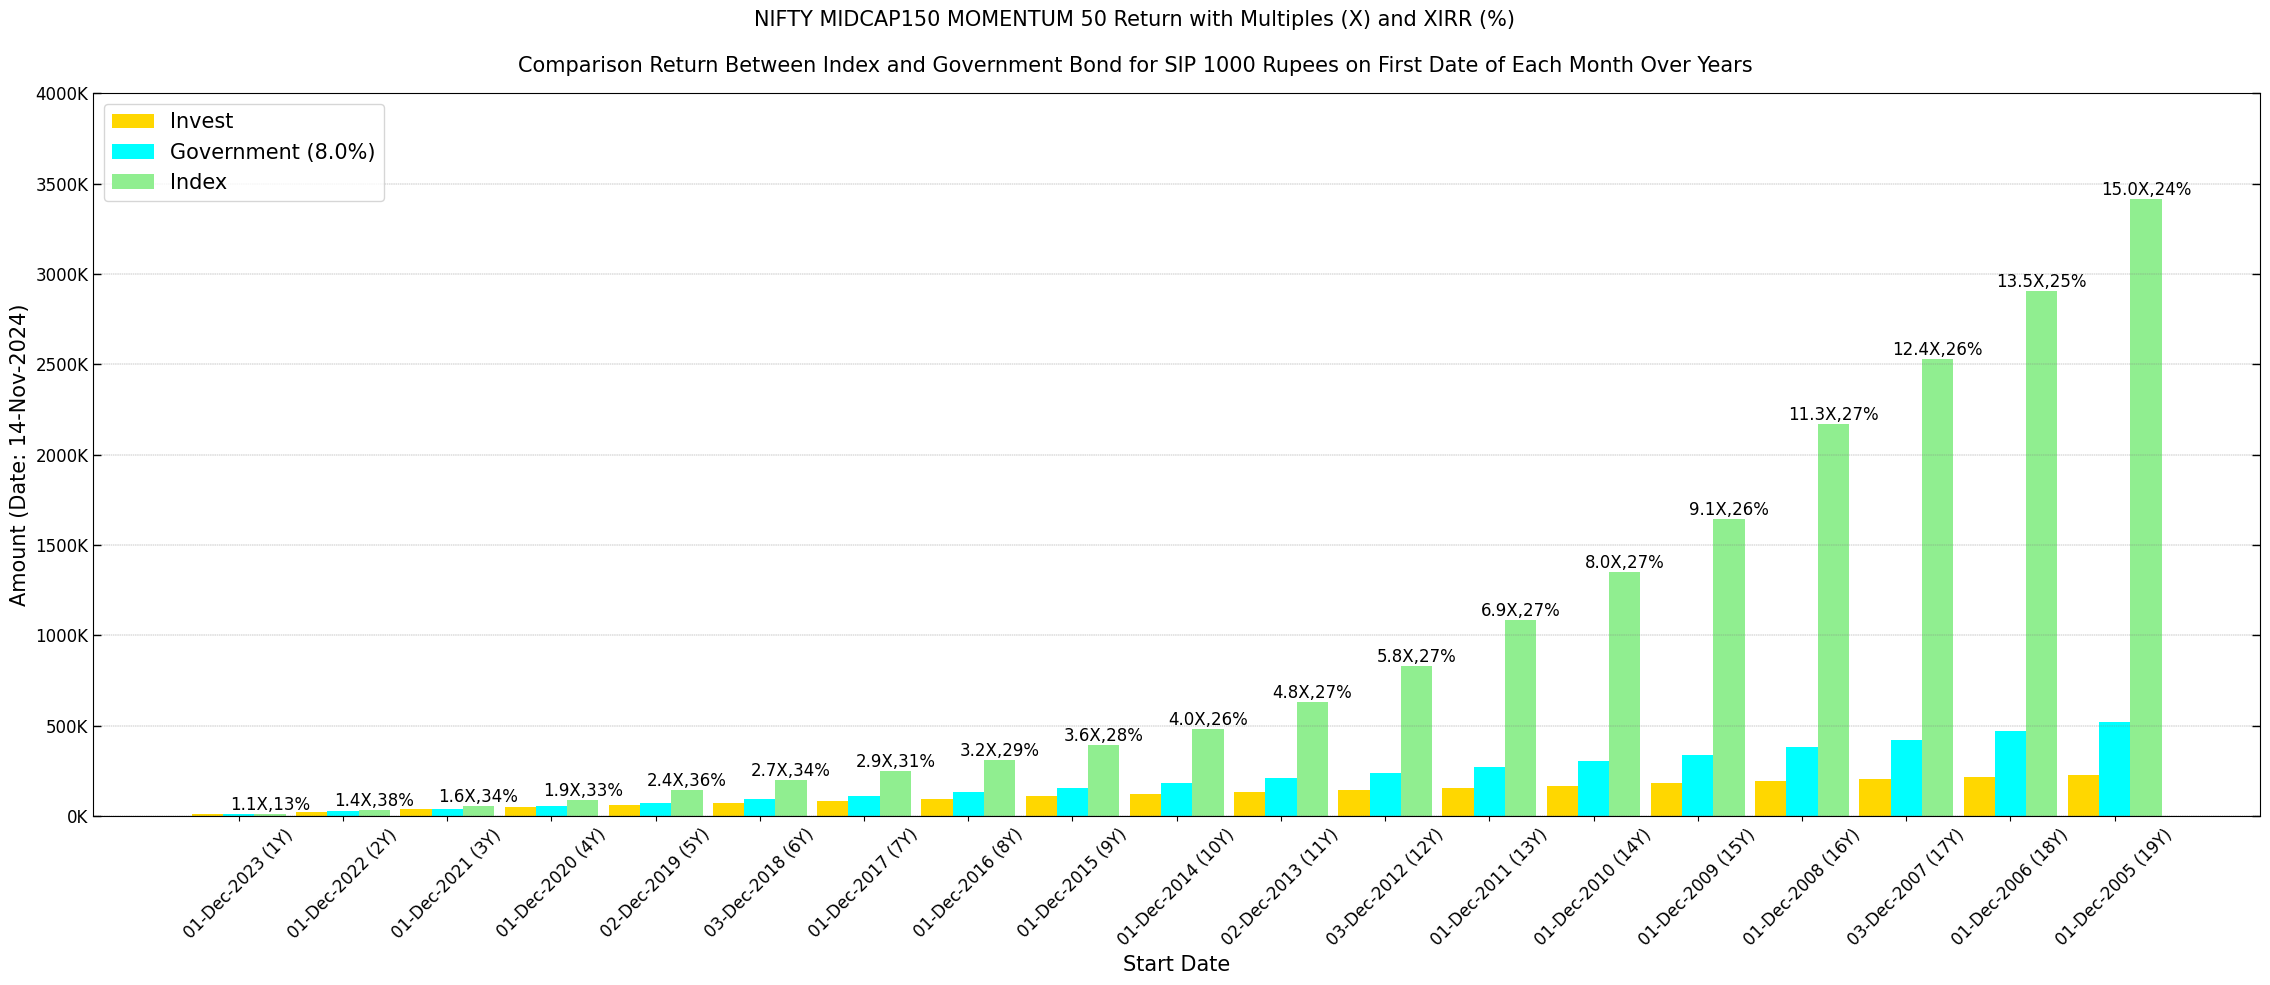
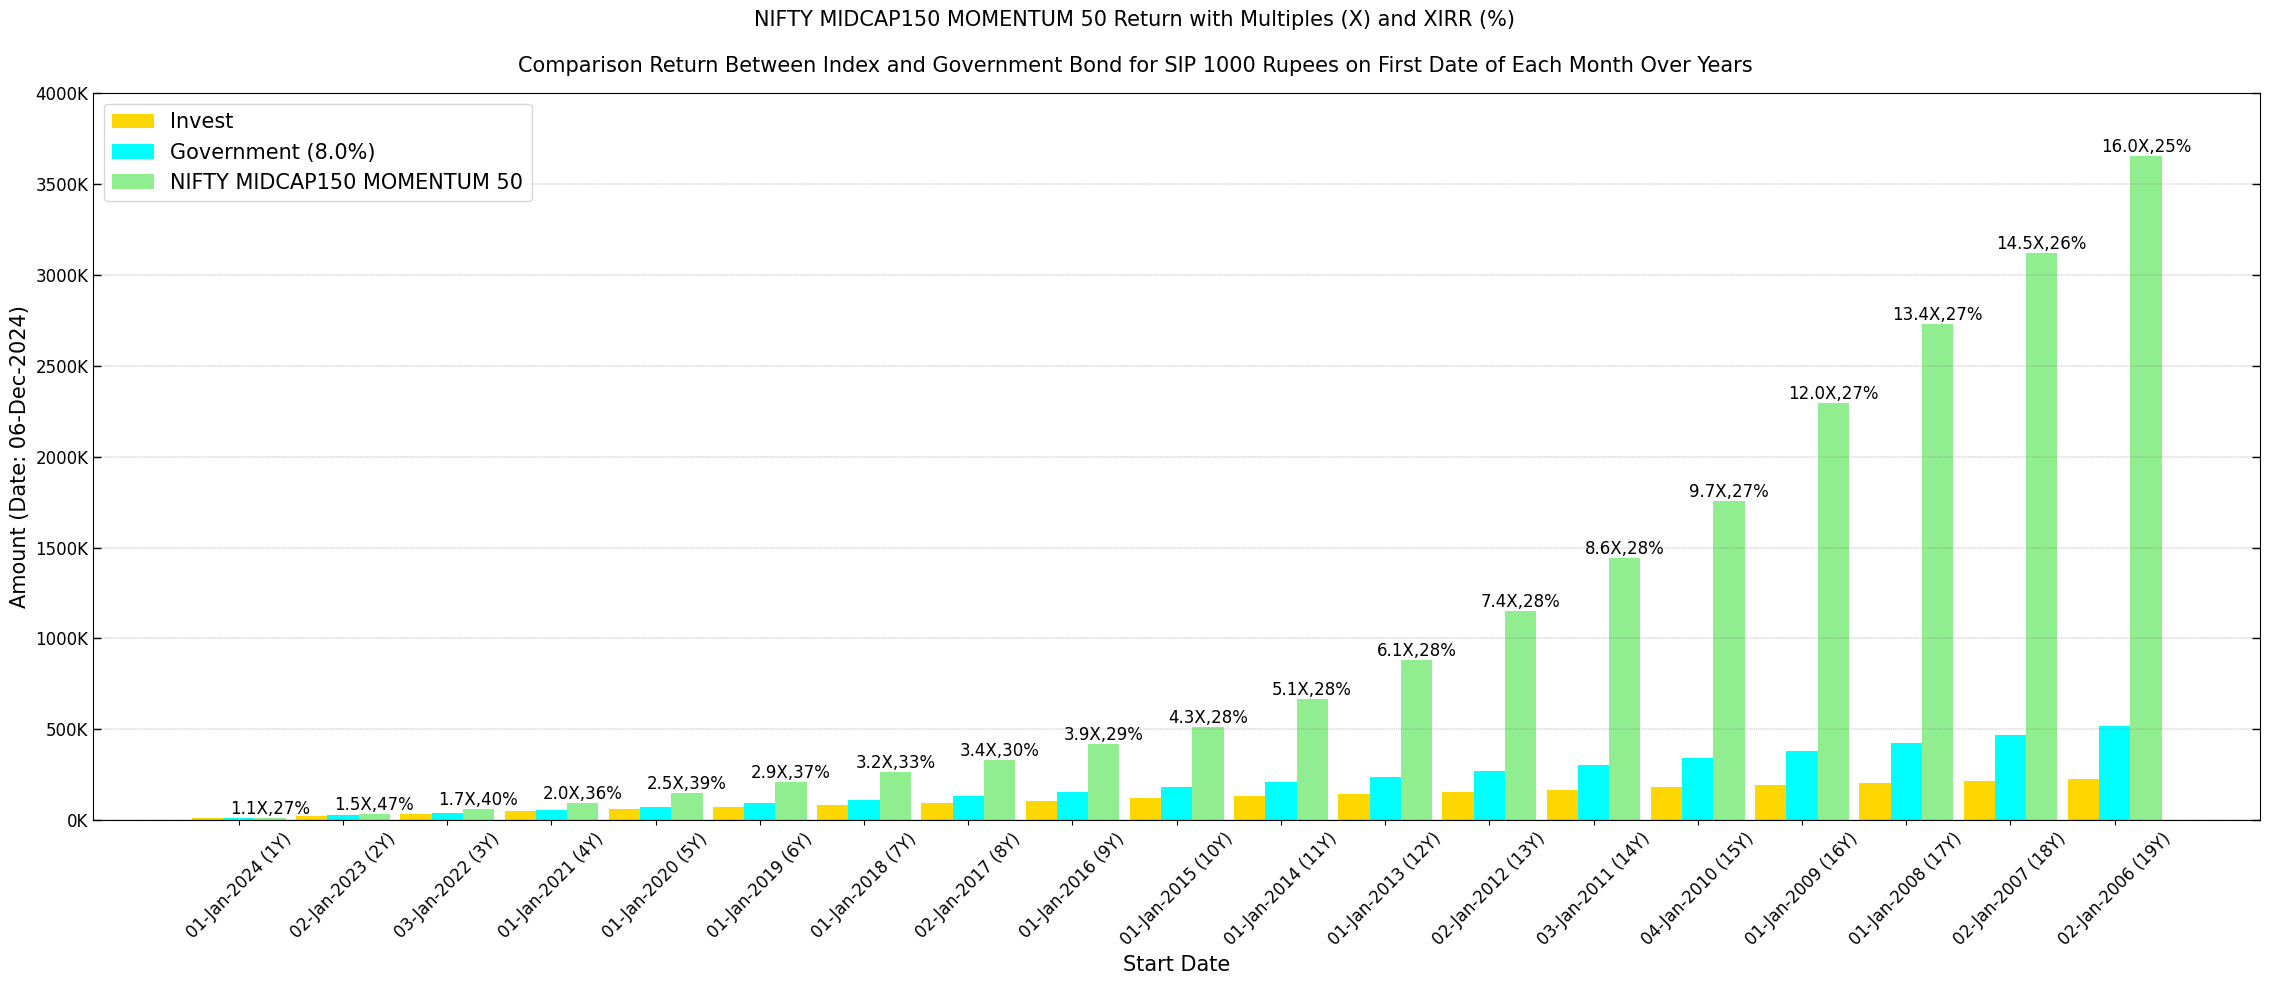
new version

diff --git a/BharatFinTrack/nse_index.py b/BharatFinTrack/nse_index.py
@@ -43,6 +43,12 @@ class NSEIndex:
             A DataFrame containing the daily summary for all NSE indices.
         '''
 
+        # check folder path
+        if not os.path.isdir(folder_path):
+            raise Exception('The folder path does not exist.')
+        else:
+            pass
+
         # web request headers
         headers = Core().default_http_headers if http_headers is None else http_headers
 
@@ -59,20 +65,20 @@ class NSEIndex:
             features='html.parser'
         )
         for anchor in soup.find_all('a'):
-            if anchor['href'].endswith('.csv') and anchor['id'] == 'dailysnapOneDaybefore':
-                csv_link = main_url + anchor['href']
-                response = requests.get(
-                    url=csv_link,
-                    headers=headers
-                )
-                if os.path.isdir(folder_path):
+            try:
+                if anchor['href'].endswith('.csv') and anchor['id'] == 'dailysnapOneDaybefore':
+                    csv_link = main_url + anchor['href']
+                    response = requests.get(
+                        url=csv_link,
+                        headers=headers
+                    )
                     download_file = os.path.join(folder_path, 'summary_index_price_closing_value.csv')
                     with open(download_file, 'wb') as download_data:
                         download_data.write(response.content)
                     output = pandas.read_csv(download_file)
                 else:
-                    raise Exception('The folder path does not exist.')
-            else:
+                    pass
+            except Exception:
                 pass
 
         return output
@@ -124,7 +130,7 @@ class NSEIndex:
         base_df = base_df.drop(columns=['ID', 'API TRI'])
         base_df['Base Date'] = base_df['Base Date'].apply(lambda x: x.date())
 
-        # fixing unmatched indices with base indinces in the download Dataframe
+        # fixing unmatched indices with base indices in the download Dataframe
         download_unmatch = {
             'NIFTY 50 FUTURES INDEX': 'NIFTY 50 FUTURES PR',
             'NIFTY 50 FUTURES TR INDEX': 'NIFTY 50 FUTURES TR',

diff --git a/tests/test_bharatfintrack.py b/tests/test_bharatfintrack.py
@@ -207,8 +207,8 @@ def test_download_historical_daily_data(
 @pytest.mark.parametrize(
     'index, expected_value',
     [
-        ('NIFTY INDIA NEW AGE CONSUMPTION', 14709.71),
-        ('NIFTY INDIA SELECT 5 CORPORATE GROUPS (MAATR)', 47085.20),
+        ('NIFTY INDIA SELECT 5 CORPORATE GROUPS (MAATR)', 45021.65),
+        ('NIFTY INDIA RAILWAYS PSU', 4493.09),
     ]
 )
 def test_index_download_historical_daily_data(
@@ -221,8 +221,8 @@ def test_index_download_historical_daily_data(
         df = nse_tri.download_historical_daily_data(
             index=index,
             excel_file=excel_file,
-            start_date='15-Oct-2024',
-            end_date='15-Oct-2024'
+            start_date='06-Dec-2024',
+            end_date='06-Dec-2024'
         )
         assert float(df.iloc[-1, -1]) == expected_value
 

diff --git a/BharatFinTrack/visual.py b/BharatFinTrack/visual.py
@@ -772,7 +772,7 @@ class Visual:
             x=xticks + bar_width,
             height=df['Value'] / monthly_invest,
             width=bar_width,
-            label='Index',
+            label=index.upper(),
             color='lightgreen'
         )
         for xt in xticks:

diff --git a/docs/visualization.rst b/docs/visualization.rst
@@ -18,22 +18,10 @@ Equity Index Closing Values
 -----------------------------
 
 This section provides bar plots of NSE equity indices’ closing values, focusing on `Price` and `TRI` performance metrics sorted by CAGR (%). The data for these visualizations must be sourced from the Excel files generated in the :ref:`Equity Index Price CAGR <f_equity_index_price_cagr>` 
-and :ref:`Equity TRI CAGR <f_equity_tri_cagr>` sections. 
+and :ref:`Equity TRI CAGR <f_equity_tri_cagr>` sections.
 
 
-A bar graph is generated, sorted in descending order by CAGR (≥ 15%) since inception and grouped by index category. Users can substitute `TRI` with `Price` to explore variations.
-
-.. code-block:: python
-    
-    visual.plot_cagr_filtered_indices_by_category(
-        excel_file=r"C:\Users\Username\Folder\tri_sort_cagr_by_category.xlsx",
-        close_type='TRI',
-        figure_file=r"C:\Users\Username\Folder\plot_tri_sort_cagr_filtered_by_category.png",
-        threshold_cagr=15
-    )
-
-
-The next plot highlights the top five NSE equity indices by `TRI` CAGR (%) within each category since launch.
+The following code plots the top five NSE equity indices by `TRI` CAGR (%) within each category since launch.
 
 .. code-block:: python
     
@@ -58,39 +46,18 @@ A bar plot of the top 15 NSE equity indices by overall `TRI` CAGR (%) is generat
         excel_file=r"C:\Users\Username\Folder\tri_sort_cagr.xlsx",
         close_type='TRI',
         figure_file=r"C:\Users\Username\Folder\tri_top_cagr.png",
-        top_cagr=20
+        top_cagr=15
     )
     
 The resulting plot will resemble the example shown below.
 
 .. image:: _static/tri_top_cagr.png
    :align: left
-
-
-
-SIP Return
--------------
-A bar plot displays investments and returns over the years for `TRI` data of the `NIFTY MIDCAP150 MOMENTUM 50` index. Data required to compute the SIP must be sourced from the Excel file generated in the :ref:`Total Return Index (TRI) <f_download_tri>` section. 
-
-
-.. code-block:: python
-    
-    visual.plot_yearwise_sip_returns(
-        index='NIFTY MIDCAP150 MOMENTUM 50'
-        excel_file=r"C:\Users\Username\Folder\index_data.xlsx",
-        figure_file=r"C:\Users\Username\Folder\SIP_Yearwise.png"
-    )
-    
-    
-The resulting plot will look similar to the example below.
-
-.. image:: _static/sip_yearwise_NIFTY_MIDCAP150_MOMENTUM_50.png
-   :align: left
    
    
 SIP Comparison with Government Securities
 -------------------------------------------
-A bar plot displays the comparison of investments and returns over the years for the `TRI` data of the `NIFTY MIDCAP150 MOMENTUM 50` index and government secutity bond with an assumed coupon rate. 
+A bar plot displays the comparison of investments and returns over the years for the `TRI` data of the `NIFTY MIDCAP150 MOMENTUM 50` index and government secutity bond with an assumed coupon rate. Data required to compute the SIP must be sourced from the Excel file generated in the :ref:`Total Return Index (TRI) <f_download_tri>` section. 
 
 
 .. code-block:: python
@@ -120,24 +87,21 @@ A plot comparing the growth multiples (X) of a monthly SIP investment across `TR
 
     index_list = [
         'NIFTY 50',
-        'NIFTY 500',
         'NIFTY ALPHA 50',
         'NIFTY MIDCAP150 MOMENTUM 50',
         'NIFTY500 MOMENTUM 50',
-        'NIFTY MIDSMALLCAP400 MOMENTUM QUALITY 100',
-        'NIFTY SMALLCAP250 MOMENTUM QUALITY 100'
     ]
     
     visual.plot_sip_growth_comparison_across_indices(
         indices=index_list
         folder_path=r"C:\Users\Username\Folder",
-        figure_file=r"C:\Users\Username\Folder\sip_invest_growth_across_indices.png"
+        figure_file=r"C:\Users\Username\Folder\sip_growth_multiple.png"
     )
     
     
 The produced plot will be comparable to the example depicted below.
 
-.. image:: _static/sip_invest_growth_across_indices.png
+.. image:: _static/sip_growth_multiple.png
    :align: left
 
 

diff --git a/README.md b/README.md
@@ -50,15 +50,14 @@ Using `BharatFinTrack`, you can quickly gain insights into the performance of NS
 
 ![Category-wise Top Five TRI CAGR(%) of NSE Equity Indices](https://github.com/debpal/BharatFinTrack/raw/master/docs/_static/tri_top_cagr_by_category.png)
 
-In this graph, the `NIFTY MIDCAP150 MOMENTUM 50` stands out as one of the best-performing NSE equity `TRI` indices in terms of long-term CAGR. The next graph illustrates the year-wise investments and returns, shown as investment multiples (X) and XIRR (%), for a monthly SIP of 1,000 Rupees in a passive fund tracking the `TRI` data of `NIFTY MIDCAP150 MOMENTUM 50`.
+In the above graph, the `NIFTY MIDCAP150 MOMENTUM 50` emerges as one of the best-performing NSE equity `TRI` indices in terms of long-term CAGR. The next graph illustrates a comparison of year-wise investments and returns for a monthly SIP of 1,000 Rupees between a government bond and a passive fund tracking the `TRI` data of `NIFTY MIDCAP150 MOMENTUM 50`.
+
+![Year-wise SIP comparison between Government Bond and NIFTY_MIDCAP150_MOMENTUM_50](https://github.com/debpal/BharatFinTrack/raw/master/docs/_static/sip_yearwise_NIFTY_MIDCAP150_MOMENTUM_50.png)
+
+Additionally, the following plot compares the growth multiples (X) of a monthly SIP investment across `TRI` indices, including the popular index `NIFTY 50` and other top-performing NSE equity indices over the years.
 
 
-![Year-wise SIP analysis of NIFTY_MIDCAP150_MOMENTUM_50](https://github.com/debpal/BharatFinTrack/raw/master/docs/_static/sip_yearwise_NIFTY_MIDCAP150_MOMENTUM_50.png)
-
-Additionally, the following plot compares the growth multiples (X) of a monthly SIP investment across `TRI` indices, including popular indices such as `NIFTY 50` and `NIFTY 500`, as well as several other top-performing NSE equity indices over the years.
-
-
-![Year-wise SIP growth comparison across multiple indices](https://github.com/debpal/BharatFinTrack/raw/master/docs/_static/sip_invest_growth_across_indices.png)
+![Year-wise SIP growth comparison across multiple indices](https://github.com/debpal/BharatFinTrack/raw/master/docs/_static/sip_growth_multiple.png)
 
 ## Easy Installation
 

diff --git a/docs/functionality.rst b/docs/functionality.rst
@@ -116,12 +116,9 @@ Comparing the growth multiples (X) of a monthly SIP investment across `TRI` indi
 
     index_list = [
         'NIFTY 50',
-        'NIFTY 500',
         'NIFTY ALPHA 50',
         'NIFTY MIDCAP150 MOMENTUM 50',
-        'NIFTY500 MOMENTUM 50',
-        'NIFTY MIDSMALLCAP400 MOMENTUM QUALITY 100',
-        'NIFTY SMALLCAP250 MOMENTUM QUALITY 100'
+        'NIFTY500 MOMENTUM 50'
     ]
     
     nse_tri.sip_growth_comparison_across_indices(

diff --git a/docs/changelog.rst b/docs/changelog.rst
@@ -2,6 +2,17 @@
 Release Notes
 ===============
 
+
+Version 0.1.10
+---------------
+
+* **Release date:** 07-Dec-2024
+  
+* **Feature Additions:** Added support for newly launched NSE equity indices.
+    
+* **Bug Fixes:** Issues with the API used to fetch data.
+
+
 Version 0.1.9
 ---------------
 
